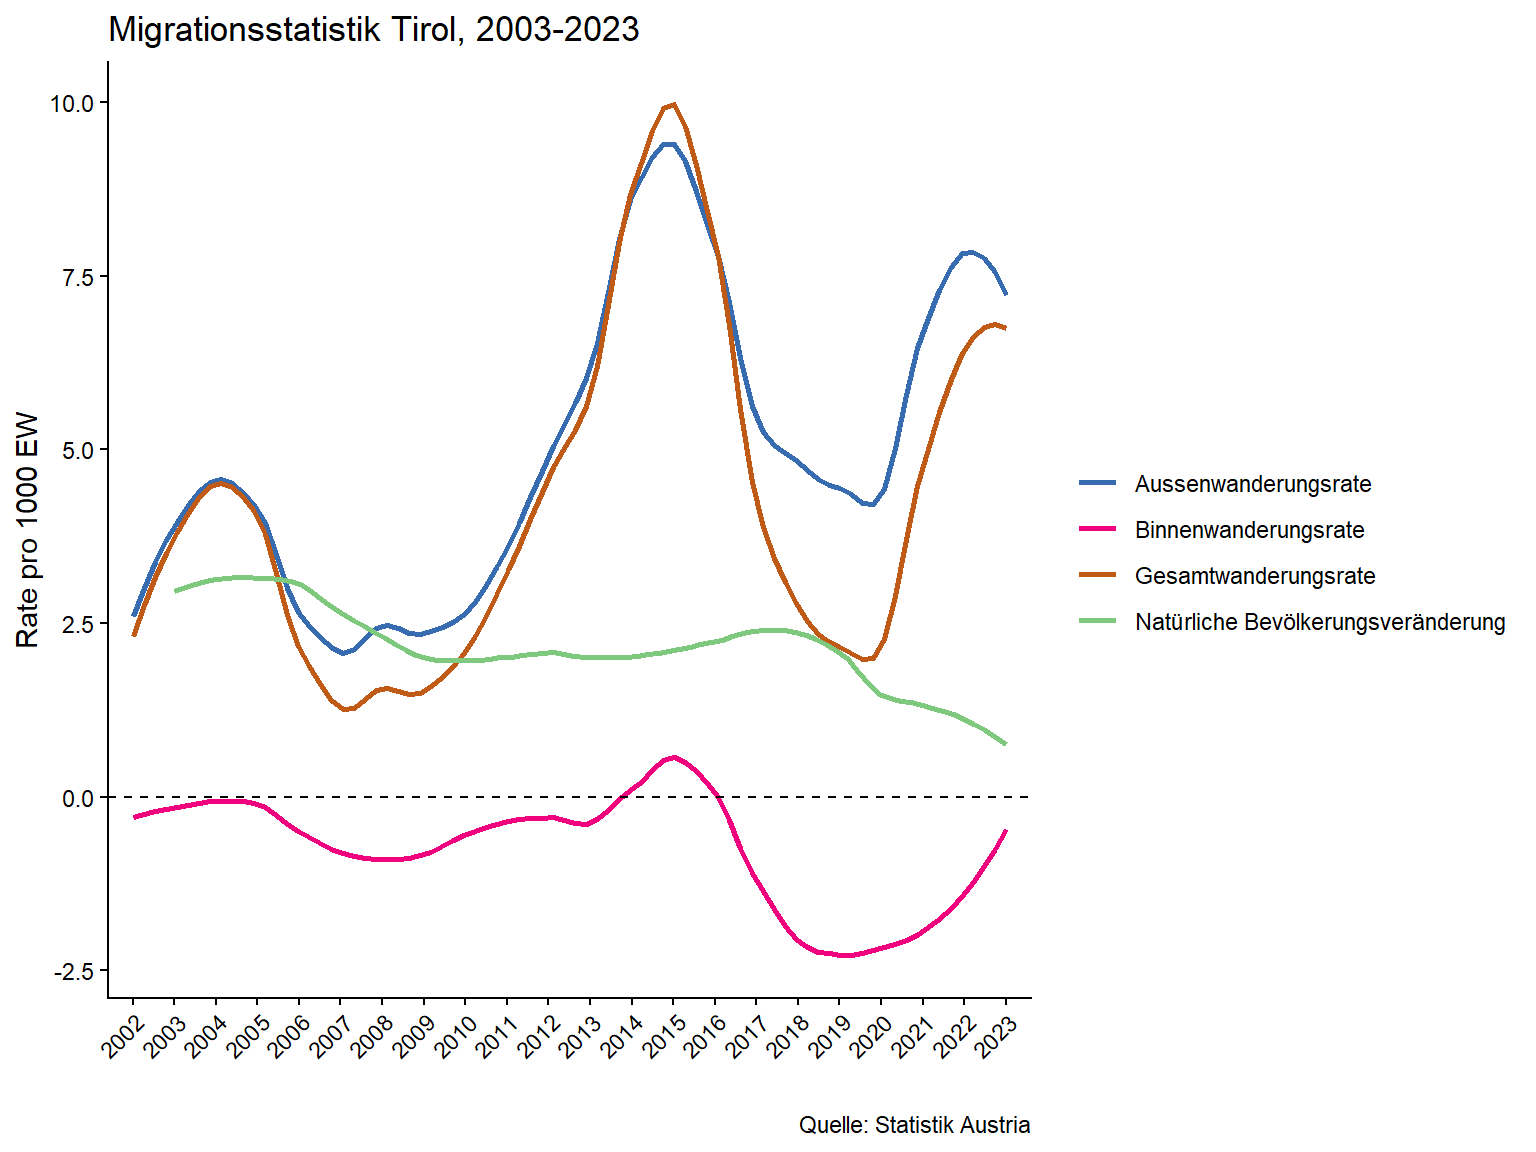
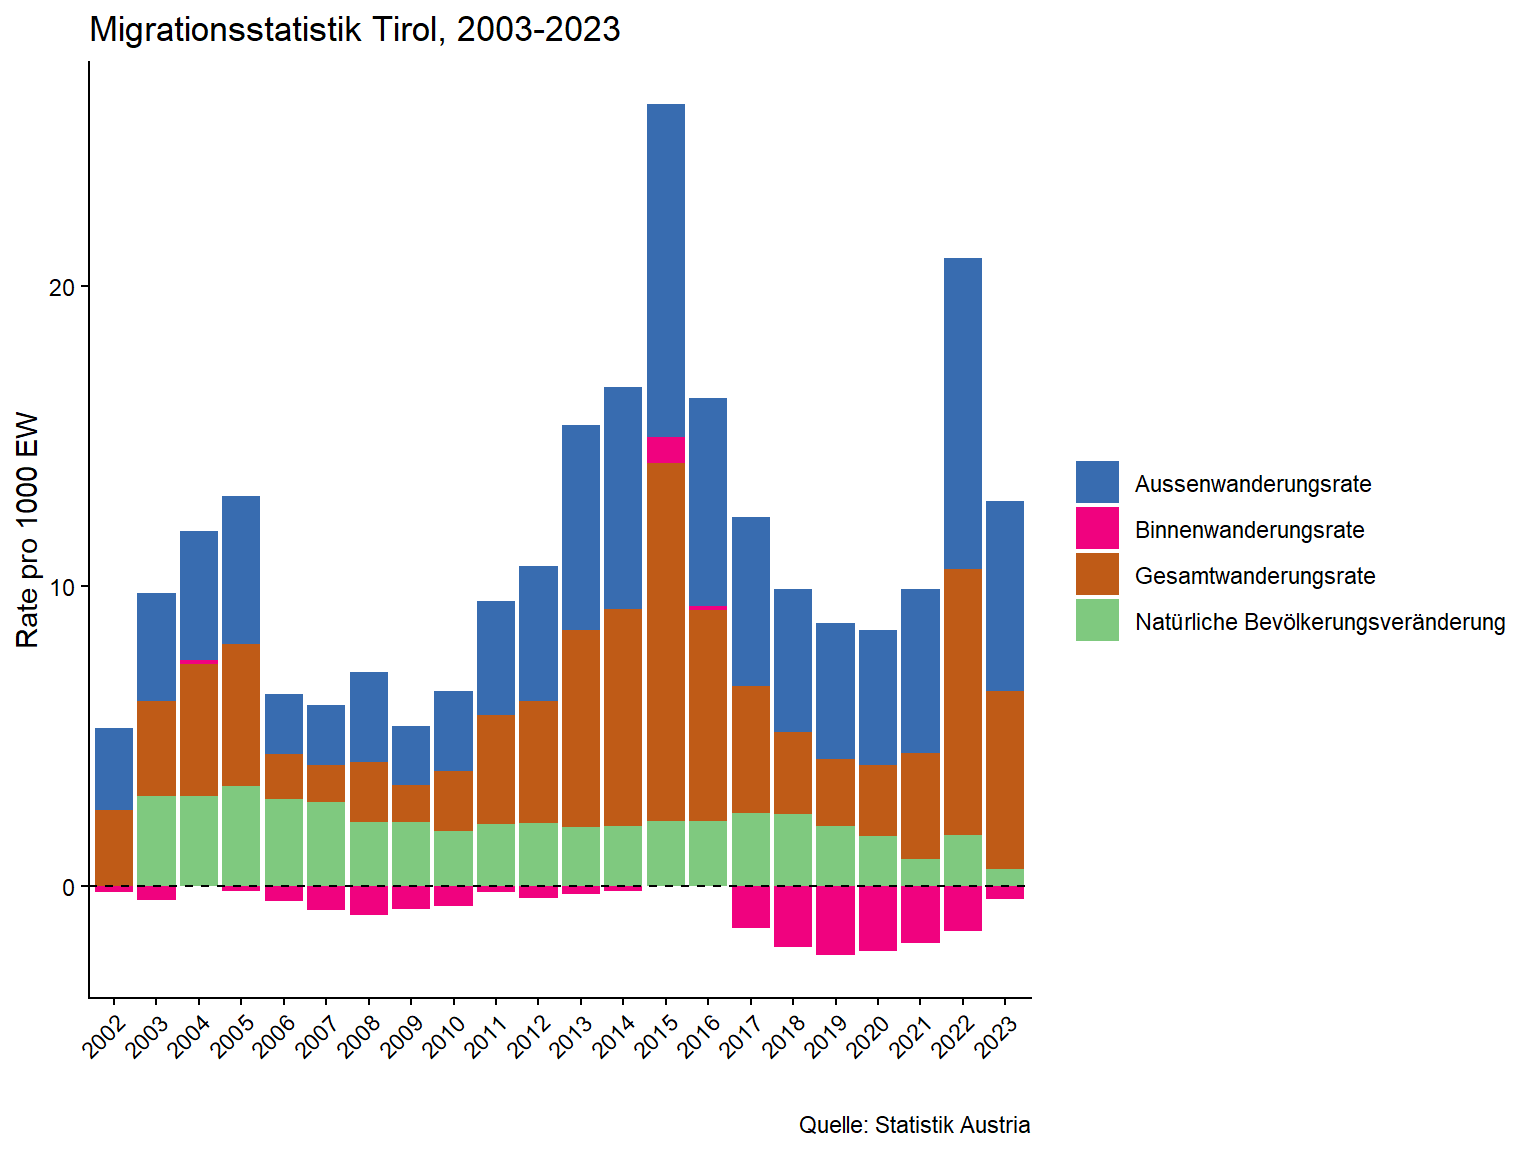
update

diff --git a/docs/02_data_manipulation.html b/docs/02_data_manipulation.html
@@ -662,10 +662,10 @@ window.Quarto = {
 </figure>
 </div>
 </div>
-<div class="code-copy-outer-scaffold"><div class="sourceCode cell-code" id="cb38"><pre class="sourceCode r code-with-copy"><code class="sourceCode r"><span id="cb38-1"><a href="#cb38-1" aria-hidden="true" tabindex="-1"></a><span class="fu">ggplot</span>(<span class="at">data =</span> rates_all <span class="sc">%&gt;%</span> <span class="fu">filter</span>(bld <span class="sc">==</span> <span class="st">"Tirol"</span>), <span class="fu">aes</span>(<span class="at">x =</span> <span class="fu">as.factor</span>(jahr), <span class="at">y =</span> value, <span class="at">col =</span> variable, <span class="at">group =</span> variable))<span class="sc">+</span></span>
-<span id="cb38-2"><a href="#cb38-2" aria-hidden="true" tabindex="-1"></a>  <span class="fu">geom_smooth</span>(<span class="at">linewidth =</span> <span class="dv">1</span>, <span class="at">se=</span> F, <span class="at">span =</span> <span class="fl">0.3</span>)<span class="sc">+</span></span>
+<div class="code-copy-outer-scaffold"><div class="sourceCode cell-code" id="cb38"><pre class="sourceCode r code-with-copy"><code class="sourceCode r"><span id="cb38-1"><a href="#cb38-1" aria-hidden="true" tabindex="-1"></a><span class="fu">ggplot</span>(<span class="at">data =</span> rates_all <span class="sc">%&gt;%</span> <span class="fu">filter</span>(bld <span class="sc">==</span> <span class="st">"Tirol"</span>), <span class="fu">aes</span>(<span class="at">x =</span> <span class="fu">as.factor</span>(jahr), <span class="at">y =</span> value, <span class="at">fill =</span> variable, <span class="at">group =</span> variable))<span class="sc">+</span></span>
+<span id="cb38-2"><a href="#cb38-2" aria-hidden="true" tabindex="-1"></a>  <span class="fu">geom_col</span>()<span class="sc">+</span></span>
 <span id="cb38-3"><a href="#cb38-3" aria-hidden="true" tabindex="-1"></a>  <span class="fu">theme_classic</span>()<span class="sc">+</span></span>
-<span id="cb38-4"><a href="#cb38-4" aria-hidden="true" tabindex="-1"></a>  <span class="fu">scale_color_manual</span>(</span>
+<span id="cb38-4"><a href="#cb38-4" aria-hidden="true" tabindex="-1"></a>  <span class="fu">scale_fill_manual</span>(</span>
 <span id="cb38-5"><a href="#cb38-5" aria-hidden="true" tabindex="-1"></a>  <span class="at">values =</span> <span class="fu">c</span>(<span class="st">"au_rate"</span> <span class="ot">=</span> <span class="st">"#386CB0"</span>,  </span>
 <span id="cb38-6"><a href="#cb38-6" aria-hidden="true" tabindex="-1"></a>             <span class="st">"bi_rate"</span> <span class="ot">=</span> <span class="st">"#F0027F"</span>,   </span>
 <span id="cb38-7"><a href="#cb38-7" aria-hidden="true" tabindex="-1"></a>             <span class="st">"mig_rate"</span> <span class="ot">=</span> <span class="st">"#BF5B17"</span>,</span>
@@ -673,8 +673,8 @@ window.Quarto = {
 <span id="cb38-9"><a href="#cb38-9" aria-hidden="true" tabindex="-1"></a>  <span class="at">labels =</span> <span class="fu">c</span>(<span class="st">"Aussenwanderungsrate"</span>, <span class="st">"Binnenwanderungsrate"</span>, <span class="st">"Gesamtwanderungsrate"</span>, <span class="st">"Natürliche Bevölkerungsveränderung"</span>)</span>
 <span id="cb38-10"><a href="#cb38-10" aria-hidden="true" tabindex="-1"></a>)<span class="sc">+</span></span>
 <span id="cb38-11"><a href="#cb38-11" aria-hidden="true" tabindex="-1"></a>  <span class="fu">geom_hline</span>(<span class="at">yintercept =</span> <span class="dv">0</span>, <span class="at">col =</span> <span class="st">"black"</span>, <span class="at">linetype =</span> <span class="st">"dashed"</span>)<span class="sc">+</span></span>
-<span id="cb38-12"><a href="#cb38-12" aria-hidden="true" tabindex="-1"></a>  <span class="fu">labs</span>(<span class="at">y =</span> <span class="st">"Rate pro 1000 EW"</span>, <span class="at">x =</span> <span class="st">" "</span>, <span class="at">col =</span> <span class="st">" "</span>, <span class="at">title =</span> <span class="st">"Migrationsstatistik Tirol, 2003-2023"</span>, <span class="at">caption =</span> <span class="st">"Quelle: Statistik Austria"</span>)<span class="sc">+</span></span>
-<span id="cb38-13"><a href="#cb38-13" aria-hidden="true" tabindex="-1"></a>    <span class="fu">theme</span>(<span class="at">axis.text.x =</span> <span class="fu">element_text</span>(<span class="at">angle =</span> <span class="dv">45</span>, <span class="at">hjust =</span> <span class="dv">1</span>))</span></code></pre></div><button title="Copy to Clipboard" class="code-copy-button"><i class="bi"></i></button></div>
+<span id="cb38-12"><a href="#cb38-12" aria-hidden="true" tabindex="-1"></a>  <span class="fu">labs</span>(<span class="at">y =</span> <span class="st">"Rate pro 1000 EW"</span>, <span class="at">x =</span> <span class="st">" "</span>, <span class="at">fill =</span> <span class="st">" "</span>, <span class="at">title =</span> <span class="st">"Migrationsstatistik Tirol, 2003-2023"</span>, <span class="at">caption =</span> <span class="st">"Quelle: Statistik Austria"</span>)<span class="sc">+</span></span>
+<span id="cb38-13"><a href="#cb38-13" aria-hidden="true" tabindex="-1"></a>    <span class="fu">theme</span>(<span class="at">axis.text.x =</span> <span class="fu">element_text</span>(<span class="at">angle =</span> <span class="dv">45</span>, <span class="at">hjust =</span> <span class="dv">1</span>)) <span class="co"># Diese Darstellung ist fehlerhaft, warum?</span></span></code></pre></div><button title="Copy to Clipboard" class="code-copy-button"><i class="bi"></i></button></div>
 <div class="cell-output-display">
 <div>
 <figure class="figure">
@@ -683,7 +683,7 @@ window.Quarto = {
 </div>
 </div>
 <div class="code-copy-outer-scaffold"><div class="sourceCode cell-code" id="cb39"><pre class="sourceCode r code-with-copy"><code class="sourceCode r"><span id="cb39-1"><a href="#cb39-1" aria-hidden="true" tabindex="-1"></a><span class="fu">ggplot</span>(<span class="at">data =</span> rates_all <span class="sc">%&gt;%</span> <span class="fu">filter</span>(bld <span class="sc">==</span> <span class="st">"Tirol"</span>), <span class="fu">aes</span>(<span class="at">x =</span> <span class="fu">as.factor</span>(jahr), <span class="at">y =</span> value, <span class="at">fill =</span> variable, <span class="at">group =</span> variable))<span class="sc">+</span></span>
-<span id="cb39-2"><a href="#cb39-2" aria-hidden="true" tabindex="-1"></a>  <span class="fu">geom_col</span>()<span class="sc">+</span></span>
+<span id="cb39-2"><a href="#cb39-2" aria-hidden="true" tabindex="-1"></a>  <span class="fu">geom_col</span>(<span class="at">position =</span> <span class="st">"dodge"</span>)<span class="sc">+</span></span>
 <span id="cb39-3"><a href="#cb39-3" aria-hidden="true" tabindex="-1"></a>  <span class="fu">theme_classic</span>()<span class="sc">+</span></span>
 <span id="cb39-4"><a href="#cb39-4" aria-hidden="true" tabindex="-1"></a>  <span class="fu">scale_fill_manual</span>(</span>
 <span id="cb39-5"><a href="#cb39-5" aria-hidden="true" tabindex="-1"></a>  <span class="at">values =</span> <span class="fu">c</span>(<span class="st">"au_rate"</span> <span class="ot">=</span> <span class="st">"#386CB0"</span>,  </span>
@@ -693,8 +693,8 @@ window.Quarto = {
 <span id="cb39-9"><a href="#cb39-9" aria-hidden="true" tabindex="-1"></a>  <span class="at">labels =</span> <span class="fu">c</span>(<span class="st">"Aussenwanderungsrate"</span>, <span class="st">"Binnenwanderungsrate"</span>, <span class="st">"Gesamtwanderungsrate"</span>, <span class="st">"Natürliche Bevölkerungsveränderung"</span>)</span>
 <span id="cb39-10"><a href="#cb39-10" aria-hidden="true" tabindex="-1"></a>)<span class="sc">+</span></span>
 <span id="cb39-11"><a href="#cb39-11" aria-hidden="true" tabindex="-1"></a>  <span class="fu">geom_hline</span>(<span class="at">yintercept =</span> <span class="dv">0</span>, <span class="at">col =</span> <span class="st">"black"</span>, <span class="at">linetype =</span> <span class="st">"dashed"</span>)<span class="sc">+</span></span>
-<span id="cb39-12"><a href="#cb39-12" aria-hidden="true" tabindex="-1"></a>  <span class="fu">labs</span>(<span class="at">y =</span> <span class="st">"Rate pro 1000 EW"</span>, <span class="at">x =</span> <span class="st">" "</span>, <span class="at">fill =</span> <span class="st">" "</span>, <span class="at">title =</span> <span class="st">"Migrationsstatistik Tirol, 2003-2023"</span>, <span class="at">caption =</span> <span class="st">"Quelle: Statistik Austria"</span>)<span class="sc">+</span></span>
-<span id="cb39-13"><a href="#cb39-13" aria-hidden="true" tabindex="-1"></a>    <span class="fu">theme</span>(<span class="at">axis.text.x =</span> <span class="fu">element_text</span>(<span class="at">angle =</span> <span class="dv">45</span>, <span class="at">hjust =</span> <span class="dv">1</span>)) <span class="co"># Diese Darstellung ist fehlerhaft, warum?</span></span></code></pre></div><button title="Copy to Clipboard" class="code-copy-button"><i class="bi"></i></button></div>
+<span id="cb39-12"><a href="#cb39-12" aria-hidden="true" tabindex="-1"></a>  <span class="fu">labs</span>(<span class="at">y =</span> <span class="st">"Rate pro 1000 EW"</span>, <span class="at">x =</span> <span class="st">" "</span>, <span class="at">fill =</span> <span class="st">" "</span>, <span class="at">title =</span> <span class="st">"Komponenten der Bevölkerungsentwicklung Tirol, 2002-2023"</span>, <span class="at">caption =</span> <span class="st">"Quelle: Statistik Austria"</span>)<span class="sc">+</span></span>
+<span id="cb39-13"><a href="#cb39-13" aria-hidden="true" tabindex="-1"></a>    <span class="fu">theme</span>(<span class="at">axis.text.x =</span> <span class="fu">element_text</span>(<span class="at">angle =</span> <span class="dv">45</span>, <span class="at">hjust =</span> <span class="dv">1</span>))</span></code></pre></div><button title="Copy to Clipboard" class="code-copy-button"><i class="bi"></i></button></div>
 <div class="cell-output-display">
 <div>
 <figure class="figure">
@@ -702,47 +702,27 @@ window.Quarto = {
 </figure>
 </div>
 </div>
-<div class="code-copy-outer-scaffold"><div class="sourceCode cell-code" id="cb40"><pre class="sourceCode r code-with-copy"><code class="sourceCode r"><span id="cb40-1"><a href="#cb40-1" aria-hidden="true" tabindex="-1"></a><span class="fu">ggplot</span>(<span class="at">data =</span> rates_all <span class="sc">%&gt;%</span> <span class="fu">filter</span>(bld <span class="sc">==</span> <span class="st">"Tirol"</span>), <span class="fu">aes</span>(<span class="at">x =</span> <span class="fu">as.factor</span>(jahr), <span class="at">y =</span> value, <span class="at">fill =</span> variable, <span class="at">group =</span> variable))<span class="sc">+</span></span>
-<span id="cb40-2"><a href="#cb40-2" aria-hidden="true" tabindex="-1"></a>  <span class="fu">geom_col</span>(<span class="at">position =</span> <span class="st">"dodge"</span>)<span class="sc">+</span></span>
-<span id="cb40-3"><a href="#cb40-3" aria-hidden="true" tabindex="-1"></a>  <span class="fu">theme_classic</span>()<span class="sc">+</span></span>
-<span id="cb40-4"><a href="#cb40-4" aria-hidden="true" tabindex="-1"></a>  <span class="fu">scale_fill_manual</span>(</span>
-<span id="cb40-5"><a href="#cb40-5" aria-hidden="true" tabindex="-1"></a>  <span class="at">values =</span> <span class="fu">c</span>(<span class="st">"au_rate"</span> <span class="ot">=</span> <span class="st">"#386CB0"</span>,  </span>
-<span id="cb40-6"><a href="#cb40-6" aria-hidden="true" tabindex="-1"></a>             <span class="st">"bi_rate"</span> <span class="ot">=</span> <span class="st">"#F0027F"</span>,   </span>
-<span id="cb40-7"><a href="#cb40-7" aria-hidden="true" tabindex="-1"></a>             <span class="st">"mig_rate"</span> <span class="ot">=</span> <span class="st">"#BF5B17"</span>,</span>
-<span id="cb40-8"><a href="#cb40-8" aria-hidden="true" tabindex="-1"></a>             <span class="st">"nat_rate"</span> <span class="ot">=</span> <span class="st">"#7FC97F"</span>),</span>
-<span id="cb40-9"><a href="#cb40-9" aria-hidden="true" tabindex="-1"></a>  <span class="at">labels =</span> <span class="fu">c</span>(<span class="st">"Aussenwanderungsrate"</span>, <span class="st">"Binnenwanderungsrate"</span>, <span class="st">"Gesamtwanderungsrate"</span>, <span class="st">"Natürliche Bevölkerungsveränderung"</span>)</span>
-<span id="cb40-10"><a href="#cb40-10" aria-hidden="true" tabindex="-1"></a>)<span class="sc">+</span></span>
-<span id="cb40-11"><a href="#cb40-11" aria-hidden="true" tabindex="-1"></a>  <span class="fu">geom_hline</span>(<span class="at">yintercept =</span> <span class="dv">0</span>, <span class="at">col =</span> <span class="st">"black"</span>, <span class="at">linetype =</span> <span class="st">"dashed"</span>)<span class="sc">+</span></span>
-<span id="cb40-12"><a href="#cb40-12" aria-hidden="true" tabindex="-1"></a>  <span class="fu">labs</span>(<span class="at">y =</span> <span class="st">"Rate pro 1000 EW"</span>, <span class="at">x =</span> <span class="st">" "</span>, <span class="at">fill =</span> <span class="st">" "</span>, <span class="at">title =</span> <span class="st">"Migrationsstatistik Tirol, 2003-2023"</span>, <span class="at">caption =</span> <span class="st">"Quelle: Statistik Austria"</span>)<span class="sc">+</span></span>
-<span id="cb40-13"><a href="#cb40-13" aria-hidden="true" tabindex="-1"></a>    <span class="fu">theme</span>(<span class="at">axis.text.x =</span> <span class="fu">element_text</span>(<span class="at">angle =</span> <span class="dv">45</span>, <span class="at">hjust =</span> <span class="dv">1</span>))</span></code></pre></div><button title="Copy to Clipboard" class="code-copy-button"><i class="bi"></i></button></div>
-<div class="cell-output-display">
-<div>
-<figure class="figure">
-<p><img src="02_data_manipulation_files/figure-html/unnamed-chunk-17-4.png" class="img-fluid figure-img" width="768"></p>
-</figure>
-</div>
-</div>
 </div>
 <p>Mit <code>facet_wrap()</code> oder <code>facet_grid()</code> können wir diese Darstellung auch für alle Bundesländer in einem Plot vergleichend darstellen.</p>
 <div class="cell">
-<div class="code-copy-outer-scaffold"><div class="sourceCode cell-code" id="cb41"><pre class="sourceCode r code-with-copy"><code class="sourceCode r"><span id="cb41-1"><a href="#cb41-1" aria-hidden="true" tabindex="-1"></a><span class="fu">ggplot</span>(<span class="at">data =</span> rates_all <span class="sc">%&gt;%</span> <span class="fu">filter</span>(variable <span class="sc">!=</span> <span class="st">"mig_rate"</span>),</span>
-<span id="cb41-2"><a href="#cb41-2" aria-hidden="true" tabindex="-1"></a>       <span class="fu">aes</span>(<span class="at">x =</span> <span class="fu">as.factor</span>(jahr), <span class="at">y =</span> value, <span class="at">color =</span> variable, <span class="at">group =</span> variable))<span class="sc">+</span></span>
-<span id="cb41-3"><a href="#cb41-3" aria-hidden="true" tabindex="-1"></a>  <span class="fu">geom_line</span>()<span class="sc">+</span></span>
-<span id="cb41-4"><a href="#cb41-4" aria-hidden="true" tabindex="-1"></a>  <span class="co">#theme_classic()+</span></span>
-<span id="cb41-5"><a href="#cb41-5" aria-hidden="true" tabindex="-1"></a>  <span class="fu">scale_color_manual</span>(</span>
-<span id="cb41-6"><a href="#cb41-6" aria-hidden="true" tabindex="-1"></a>    <span class="at">values =</span> <span class="fu">c</span>(<span class="st">"au_rate"</span> <span class="ot">=</span> <span class="st">"#386CB0"</span>,  </span>
-<span id="cb41-7"><a href="#cb41-7" aria-hidden="true" tabindex="-1"></a>               <span class="st">"bi_rate"</span> <span class="ot">=</span> <span class="st">"#F0027F"</span>,</span>
-<span id="cb41-8"><a href="#cb41-8" aria-hidden="true" tabindex="-1"></a>               <span class="st">"nat_rate"</span> <span class="ot">=</span> <span class="st">"#7FC97F"</span>),</span>
-<span id="cb41-9"><a href="#cb41-9" aria-hidden="true" tabindex="-1"></a>    <span class="at">labels =</span> <span class="fu">c</span>(<span class="st">"Aussenwanderungsrate"</span>, <span class="st">"Binnenwanderungsrate"</span>, <span class="st">"Natürliche Bevölkerungsveränderung"</span>)</span>
-<span id="cb41-10"><a href="#cb41-10" aria-hidden="true" tabindex="-1"></a>  )<span class="sc">+</span></span>
-<span id="cb41-11"><a href="#cb41-11" aria-hidden="true" tabindex="-1"></a>  <span class="fu">facet_wrap</span>(bld<span class="sc">~</span>.)<span class="sc">+</span></span>
-<span id="cb41-12"><a href="#cb41-12" aria-hidden="true" tabindex="-1"></a>  <span class="fu">geom_hline</span>(<span class="at">yintercept =</span> <span class="dv">0</span>, <span class="at">col =</span> <span class="st">"black"</span>, <span class="at">linetype =</span> <span class="st">"dashed"</span>)<span class="sc">+</span></span>
-<span id="cb41-13"><a href="#cb41-13" aria-hidden="true" tabindex="-1"></a>  <span class="fu">labs</span>(<span class="at">y =</span> <span class="st">"Rate pro 1000 EW"</span>, <span class="at">x =</span> <span class="st">" "</span>, <span class="at">color =</span> <span class="st">" "</span>,</span>
-<span id="cb41-14"><a href="#cb41-14" aria-hidden="true" tabindex="-1"></a>       <span class="at">title =</span> <span class="st">"Komponenten der Bevölkerungsentwicklung Österreichischer Bundesländer, 2002-2023"</span>,</span>
-<span id="cb41-15"><a href="#cb41-15" aria-hidden="true" tabindex="-1"></a>       <span class="at">caption =</span> <span class="st">"Quelle: Statistik Austria;</span><span class="sc">\n</span><span class="st"> Anm: Natürliche Bevölkerungsveränderung ohne statistische Korrektur"</span>)<span class="sc">+</span></span>
-<span id="cb41-16"><a href="#cb41-16" aria-hidden="true" tabindex="-1"></a>    <span class="fu">theme_bw</span>()<span class="sc">+</span></span>
-<span id="cb41-17"><a href="#cb41-17" aria-hidden="true" tabindex="-1"></a>  <span class="fu">theme</span>(<span class="at">axis.text.x =</span> <span class="fu">element_text</span>(<span class="at">angle =</span> <span class="dv">45</span>, <span class="at">hjust =</span> <span class="dv">1</span>),</span>
-<span id="cb41-18"><a href="#cb41-18" aria-hidden="true" tabindex="-1"></a>        <span class="at">legend.position =</span> <span class="st">"bottom"</span>)</span></code></pre></div><button title="Copy to Clipboard" class="code-copy-button"><i class="bi"></i></button></div>
+<div class="code-copy-outer-scaffold"><div class="sourceCode cell-code" id="cb40"><pre class="sourceCode r code-with-copy"><code class="sourceCode r"><span id="cb40-1"><a href="#cb40-1" aria-hidden="true" tabindex="-1"></a><span class="fu">ggplot</span>(<span class="at">data =</span> rates_all <span class="sc">%&gt;%</span> <span class="fu">filter</span>(variable <span class="sc">!=</span> <span class="st">"mig_rate"</span>),</span>
+<span id="cb40-2"><a href="#cb40-2" aria-hidden="true" tabindex="-1"></a>       <span class="fu">aes</span>(<span class="at">x =</span> <span class="fu">as.factor</span>(jahr), <span class="at">y =</span> value, <span class="at">color =</span> variable, <span class="at">group =</span> variable))<span class="sc">+</span></span>
+<span id="cb40-3"><a href="#cb40-3" aria-hidden="true" tabindex="-1"></a>  <span class="fu">geom_line</span>()<span class="sc">+</span></span>
+<span id="cb40-4"><a href="#cb40-4" aria-hidden="true" tabindex="-1"></a>  <span class="co">#theme_classic()+</span></span>
+<span id="cb40-5"><a href="#cb40-5" aria-hidden="true" tabindex="-1"></a>  <span class="fu">scale_color_manual</span>(</span>
+<span id="cb40-6"><a href="#cb40-6" aria-hidden="true" tabindex="-1"></a>    <span class="at">values =</span> <span class="fu">c</span>(<span class="st">"au_rate"</span> <span class="ot">=</span> <span class="st">"#386CB0"</span>,  </span>
+<span id="cb40-7"><a href="#cb40-7" aria-hidden="true" tabindex="-1"></a>               <span class="st">"bi_rate"</span> <span class="ot">=</span> <span class="st">"#F0027F"</span>,</span>
+<span id="cb40-8"><a href="#cb40-8" aria-hidden="true" tabindex="-1"></a>               <span class="st">"nat_rate"</span> <span class="ot">=</span> <span class="st">"#7FC97F"</span>),</span>
+<span id="cb40-9"><a href="#cb40-9" aria-hidden="true" tabindex="-1"></a>    <span class="at">labels =</span> <span class="fu">c</span>(<span class="st">"Aussenwanderungsrate"</span>, <span class="st">"Binnenwanderungsrate"</span>, <span class="st">"Natürliche Bevölkerungsveränderung"</span>)</span>
+<span id="cb40-10"><a href="#cb40-10" aria-hidden="true" tabindex="-1"></a>  )<span class="sc">+</span></span>
+<span id="cb40-11"><a href="#cb40-11" aria-hidden="true" tabindex="-1"></a>  <span class="fu">facet_wrap</span>(bld<span class="sc">~</span>.)<span class="sc">+</span></span>
+<span id="cb40-12"><a href="#cb40-12" aria-hidden="true" tabindex="-1"></a>  <span class="fu">geom_hline</span>(<span class="at">yintercept =</span> <span class="dv">0</span>, <span class="at">col =</span> <span class="st">"black"</span>, <span class="at">linetype =</span> <span class="st">"dashed"</span>)<span class="sc">+</span></span>
+<span id="cb40-13"><a href="#cb40-13" aria-hidden="true" tabindex="-1"></a>  <span class="fu">labs</span>(<span class="at">y =</span> <span class="st">"Rate pro 1000 EW"</span>, <span class="at">x =</span> <span class="st">" "</span>, <span class="at">color =</span> <span class="st">" "</span>,</span>
+<span id="cb40-14"><a href="#cb40-14" aria-hidden="true" tabindex="-1"></a>       <span class="at">title =</span> <span class="st">"Komponenten der Bevölkerungsentwicklung Österreichischer Bundesländer, 2002-2023"</span>,</span>
+<span id="cb40-15"><a href="#cb40-15" aria-hidden="true" tabindex="-1"></a>       <span class="at">caption =</span> <span class="st">"Quelle: Statistik Austria;</span><span class="sc">\n</span><span class="st"> Anm: Natürliche Bevölkerungsveränderung ohne statistische Korrektur"</span>)<span class="sc">+</span></span>
+<span id="cb40-16"><a href="#cb40-16" aria-hidden="true" tabindex="-1"></a>    <span class="fu">theme_bw</span>()<span class="sc">+</span></span>
+<span id="cb40-17"><a href="#cb40-17" aria-hidden="true" tabindex="-1"></a>  <span class="fu">theme</span>(<span class="at">axis.text.x =</span> <span class="fu">element_text</span>(<span class="at">angle =</span> <span class="dv">45</span>, <span class="at">hjust =</span> <span class="dv">1</span>),</span>
+<span id="cb40-18"><a href="#cb40-18" aria-hidden="true" tabindex="-1"></a>        <span class="at">legend.position =</span> <span class="st">"bottom"</span>)</span></code></pre></div><button title="Copy to Clipboard" class="code-copy-button"><i class="bi"></i></button></div>
 <div class="cell-output-display">
 <div>
 <figure class="figure">
